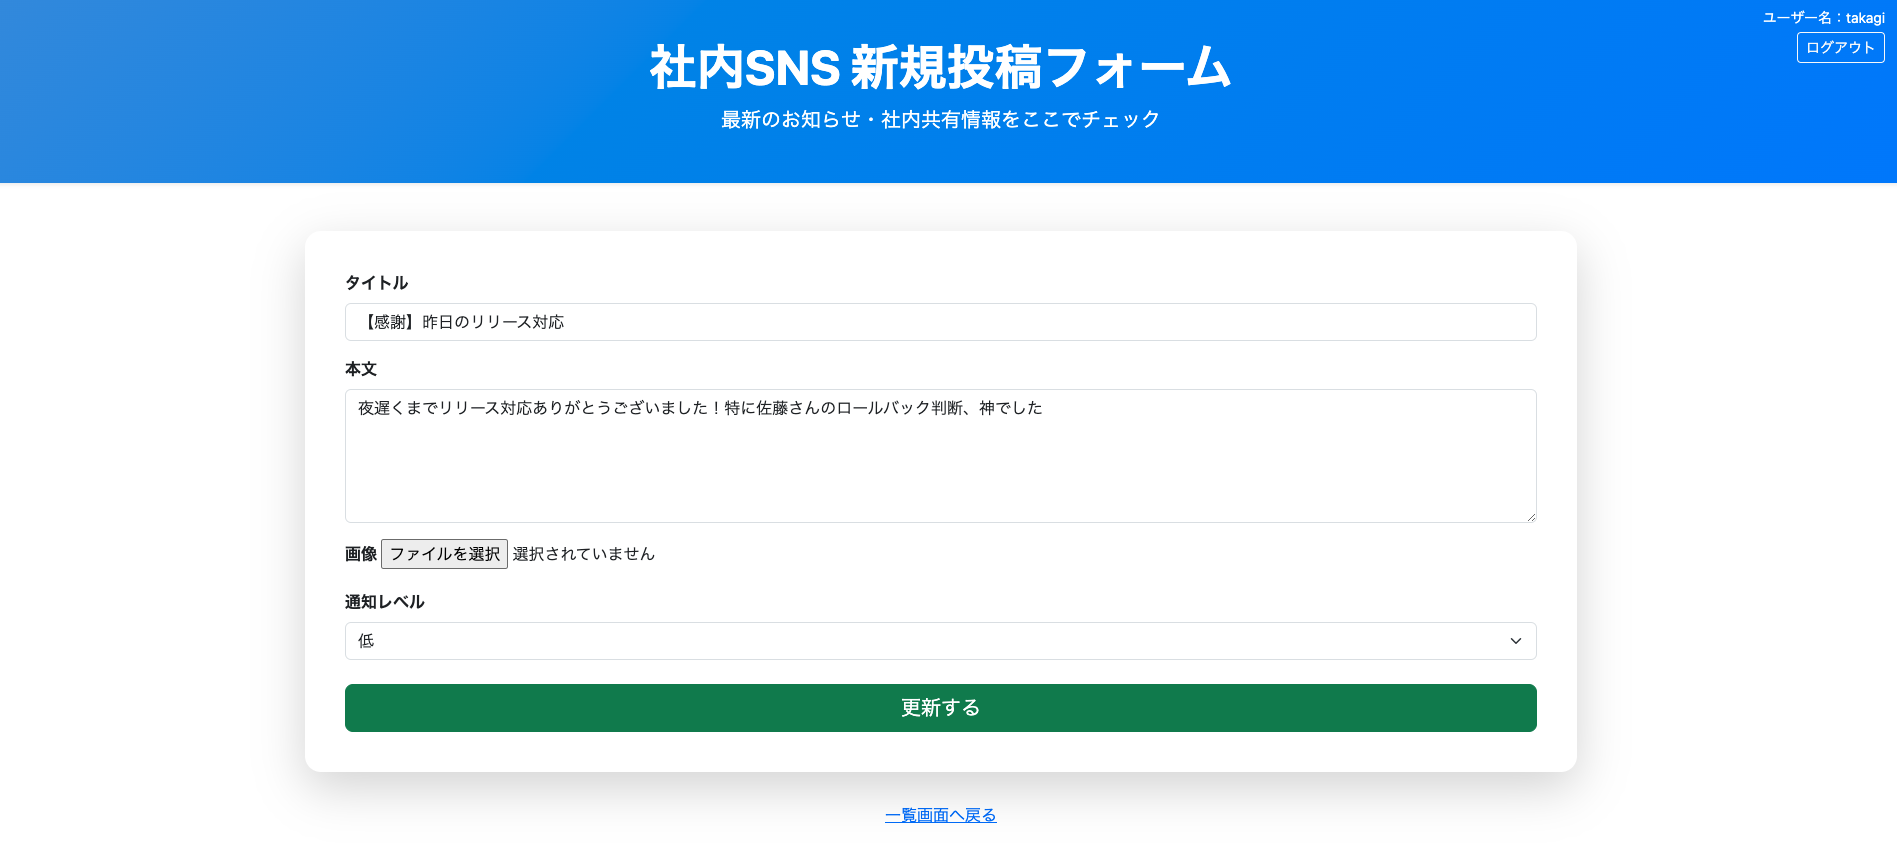
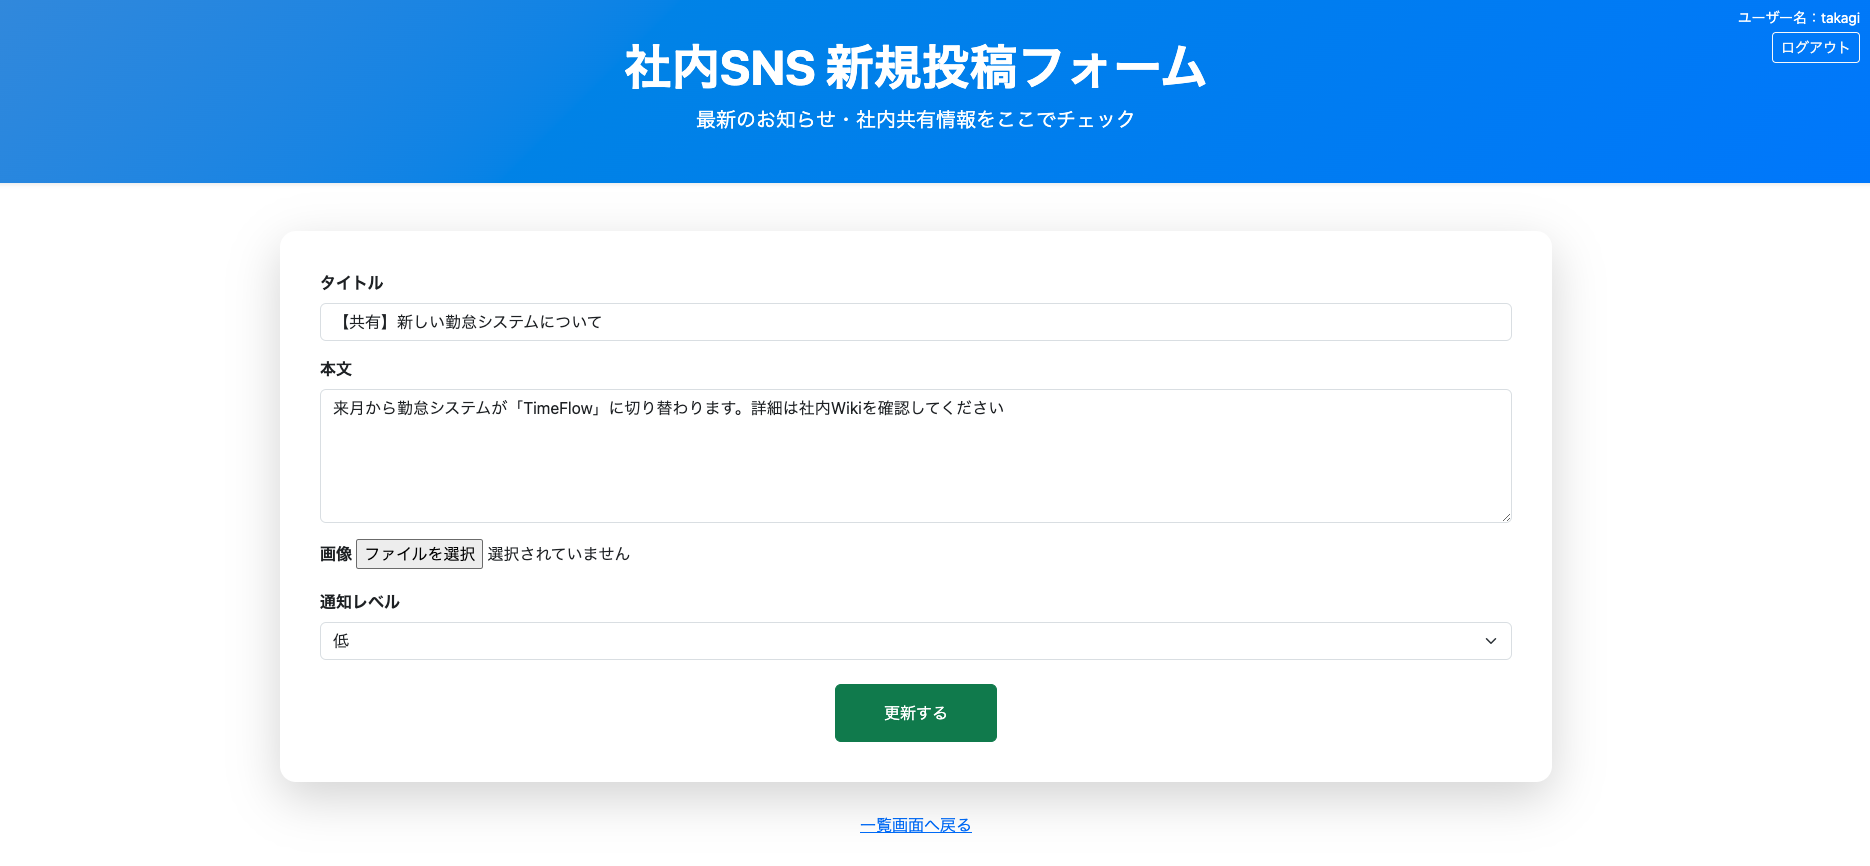
更新画面ボタン微修正

diff --git a/03_webapps/01-django-sns-priority-board/templates/update.html b/03_webapps/01-django-sns-priority-board/templates/update.html
@@ -60,8 +60,8 @@
     </select>
   </div>
 
-  <div class="d-grid mt-4">
-    <button type="submit" class="btn btn-success btn-lg" value="update">更新する</button>
+  <div class="text-center mt-4">
+    <button type="submit" class="btn btn-success px-5 py-3" value="update">更新する</button>
   </div>
 </form>
 
